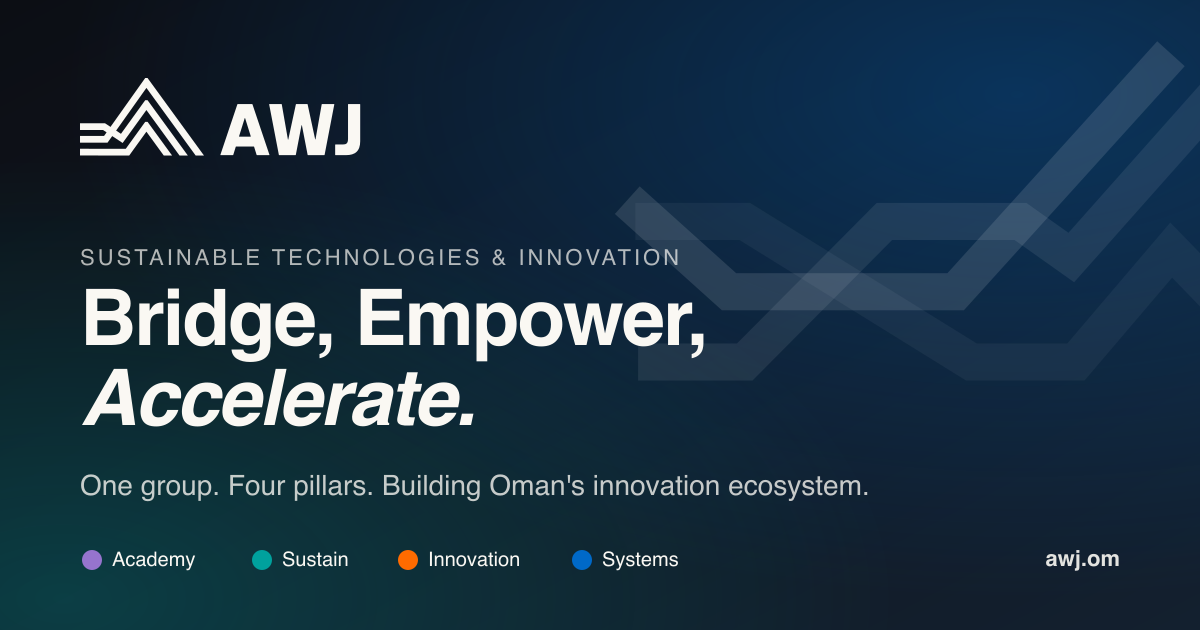
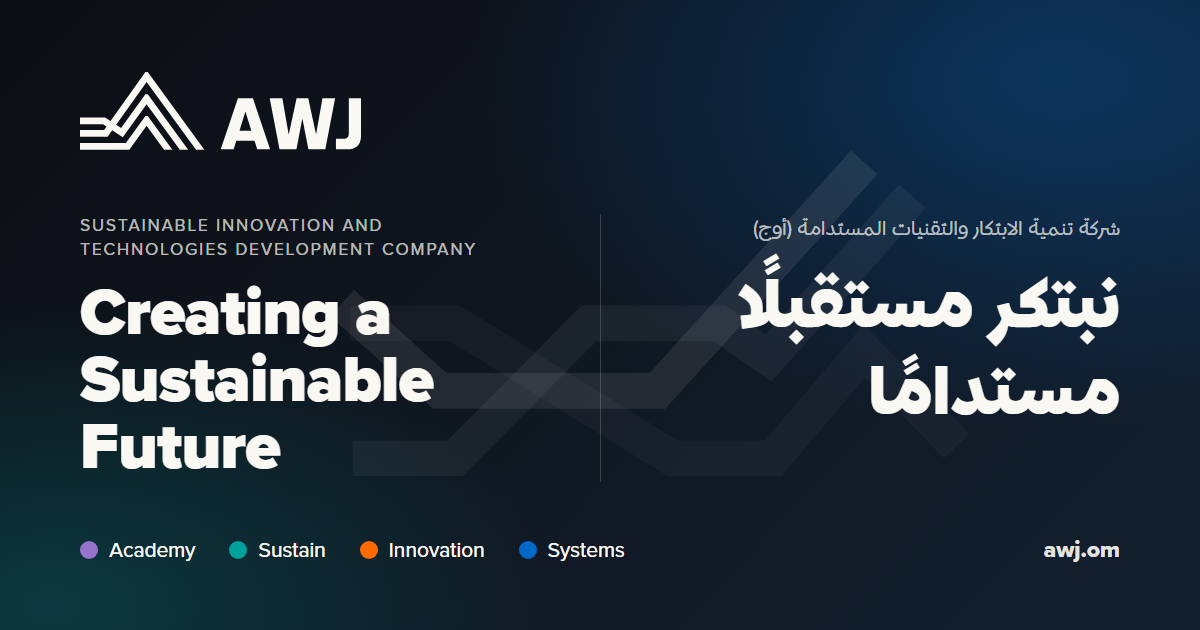
og-image.png: new bilingual design (og-image.html + render-og.mjs replace og-image.svg); meta description, og:image ?v=2; deploy-preview: share tags to Pages URL

diff --git a/scripts/og-image.html b/scripts/og-image.html
@@ -1,0 +1,88 @@
+<!doctype html>
+<!-- Source for public/og-image.png (1200x630). Render: node scripts/render-og.mjs -->
+<html>
+<head>
+<meta charset="utf-8" />
+<style>
+  @font-face { font-family: 'PNA'; src: url('../public/Fonts/Proxima Nova Arabic Regular.otf'); font-weight: 400; }
+  @font-face { font-family: 'PNA'; src: url('../public/Fonts/Proxima Nova Arabic ExtraBold.otf'); font-weight: 800; }
+  @font-face { font-family: 'PNA'; src: url('../public/Fonts/Proxima Nova Arabic Black.otf'); font-weight: 900; }
+
+  * { margin: 0; padding: 0; box-sizing: border-box; }
+  html, body { width: 1200px; height: 630px; }
+  body {
+    position: relative; overflow: hidden;
+    font-family: 'PNA', sans-serif; color: #faf8f3;
+    background:
+      radial-gradient(ellipse 70% 80% at 88% 12%, rgba(0, 105, 200, 0.34), transparent 70%),
+      radial-gradient(ellipse 60% 70% at 4% 96%, rgba(0, 161, 157, 0.26), transparent 70%),
+      linear-gradient(135deg, #0c0e14, #13202f);
+  }
+  .watermark { position: absolute; left: 330px; top: 150px; width: 640px; opacity: 0.7; }
+  .logo { position: absolute; left: 80px; top: 72px; height: 78px; }
+
+  .cols {
+    position: absolute; left: 80px; right: 80px; top: 214px;
+    display: grid; grid-template-columns: 1fr 1px 1fr; column-gap: 56px;
+  }
+  .rule { background: rgba(250, 248, 243, 0.18); }
+  .eyebrow { font-size: 17px; font-weight: 400; opacity: 0.72; line-height: 1.4; }
+  .en .eyebrow { letter-spacing: 2px; text-transform: uppercase; }
+  .ar { direction: rtl; text-align: right; }
+  .ar .eyebrow { font-size: 21px; }
+  h1 { margin-top: 18px; font-weight: 900; line-height: 1.02; }
+  .en h1 { font-size: 66px; letter-spacing: -1px; }
+  .ar h1 { font-size: 72px; line-height: 1.2; }
+
+  .foot {
+    position: absolute; left: 80px; right: 80px; bottom: 62px;
+    display: flex; align-items: center; justify-content: space-between;
+    font-size: 21px;
+  }
+  .pillars { display: flex; gap: 34px; }
+  .pillars span { display: flex; align-items: center; gap: 11px; }
+  .pillars i { width: 18px; height: 18px; border-radius: 50%; }
+  .d-academy { background: #9674ce; } .d-sustain { background: #00a19d; }
+  .d-innovation { background: #ff6b00; } .d-systems { background: #0069c8; }
+  .domain { font-weight: 800; opacity: 0.9; font-size: 23px; }
+</style>
+</head>
+<body>
+  <svg class="watermark" viewBox="-41 -47 1075 548" aria-hidden="true">
+    <polygon fill="rgba(255,255,255,0.05)" points="-7.42 214.36 -7.42 274.18 160.4 274.18 525.95 500.86 716.89 500.86 858.21 334.94 990.48 471.02 1033.37 429.32 855.29 246.11 689.26 441.04 542.99 441.04 177.44 214.36 -7.42 214.36"/>
+    <polygon fill="rgba(255,255,255,0.08)" points="691.05 262.56 623.08 214.36 381.78 214.36 156.48 441.04 -3.09 441.04 -3.09 500.86 181.37 500.86 406.66 274.18 604.02 274.18 700.17 342.36 959.45 50.48 914.73 10.75 691.05 262.56"/>
+    <polygon fill="rgba(255,255,255,0.12)" points="834.22 -46.35 495.86 327.7 155.03 327.7 -.56 187.72 -40.57 232.19 132.08 387.52 522.36 387.52 878.53 -6.16 834.22 -46.35"/>
+  </svg>
+
+  <svg class="logo" viewBox="0 0 876 243" fill="#faf8f3" aria-label="AWJ">
+    <path d="M438.78,239.81l52.98-157.49c.22-.56.78-.89,1.34-.89h44.52c.56,0,1.11.33,1.34.89l52.98,157.49c.22.78-.11,1.22-.89,1.22h-37.84c-.56,0-1.11-.33-1.34-.89l-7.79-25.15c-.22-.56-.78-.89-1.34-.89h-54.65c-.56,0-1.11.33-1.34.89l-7.79,25.15c-.22.56-.78.89-1.34.89h-37.95c-.78,0-1.11-.45-.89-1.22ZM497.99,183.27h34.73c.78,0,1.11-.45.89-1.22l-17.59-56.32c-.33-1.11-1-1.11-1.34,0l-17.59,56.32c-.22.78.11,1.22.89,1.22Z"/>
+    <path d="M621.42,240.03l-30.27-157.38c-.11-.67.22-1.22,1-1.22h37.17c.67,0,1.11.33,1.22,1l19.14,109.63c.22,1,1,1,1.22,0l23.71-109.63c.11-.67.56-1,1.22-1h34.28c.67,0,1.11.33,1.22,1l23.48,108.96c.22,1,1,1,1.22,0l19.25-108.96c.11-.67.56-1,1.22-1h37.17c.78,0,1.11.56,1,1.22l-30.27,157.38c-.11.67-.56,1-1.22,1h-50.64c-.67,0-1.11-.33-1.22-1l-17.81-91.93c-.22-1-1.11-1-1.34,0l-17.7,91.93c-.11.67-.56,1-1.22,1h-50.64c-.67,0-1.11-.33-1.22-1Z"/>
+    <path d="M797.39,239.92v-31.05c0-.67.45-1.11,1.11-1.11h22.48c10.8,0,16.58-3.01,16.58-17.7v-107.52c0-.67.45-1.11,1.11-1.11h35.84c.67,0,1.11.45,1.11,1.11v114.97c0,31.28-16.25,43.52-43.74,43.52h-33.39c-.67,0-1.11-.45-1.11-1.11Z"/>
+    <polygon points="261.79 242.35 207.51 167.74 153.69 242.33 0 242.1 .03 221.1 142.95 221.31 203.77 137.02 211.11 137.02 287.79 242.35 261.79 242.35"/>
+    <polygon points="311.05 242.35 207.51 100.11 133.23 203.06 71.85 162.48 .01 162.48 .01 141.47 78.17 141.47 127.99 174.41 203.77 69.38 211.11 69.38 337.03 242.35 311.05 242.35"/>
+    <polygon points="361.49 242.35 207.57 30.92 86.05 202.05 .01 202.05 .01 181.04 75.21 181.04 203.76 0 211.04 0 387.47 242.35 361.49 242.35"/>
+  </svg>
+
+  <div class="cols">
+    <div class="en">
+      <div class="eyebrow">Sustainable Innovation and<br />Technologies Development Company</div>
+      <h1>Creating a<br />Sustainable Future</h1>
+    </div>
+    <div class="rule"></div>
+    <div class="ar">
+      <div class="eyebrow">شركة تنمية الابتكار والتقنيات المستدامة (أوج)</div>
+      <h1>نبتكر مستقبلًا<br />مستدامًا</h1>
+    </div>
+  </div>
+
+  <div class="foot">
+    <div class="pillars">
+      <span><i class="d-academy"></i>Academy</span>
+      <span><i class="d-sustain"></i>Sustain</span>
+      <span><i class="d-innovation"></i>Innovation</span>
+      <span><i class="d-systems"></i>Systems</span>
+    </div>
+    <div class="domain">awj.om</div>
+  </div>
+</body>
+</html>

diff --git a/index.html b/index.html
@@ -8,7 +8,7 @@
     <title>AWJ | Sustainable Innovation and Technologies Development Company</title>
     <meta
       name="description"
-      content="AWJ bridges the gaps in Oman's innovation ecosystem — accelerating sustainable technologies, empowering young Omani talent, and building the institutions that turn opportunity into national wealth."
+      content="Sustainable Innovation and Technologies Development Company (AWJ). We help government, private, and academic sectors strengthen competitive capabilities and accelerate sustainable, inclusive growth."
     />
     <link rel="canonical" href="https://awj.om/" />
 
@@ -25,15 +25,15 @@
     <meta property="og:title" content="AWJ" />
     <meta
       property="og:description"
-      content="AWJ bridges the gaps in Oman's innovation ecosystem — accelerating sustainable technologies, empowering young Omani talent, and building the institutions that turn opportunity into national wealth."
+      content="Sustainable Innovation and Technologies Development Company (AWJ). We help government, private, and academic sectors strengthen competitive capabilities and accelerate sustainable, inclusive growth."
     />
     <meta property="og:url" content="https://awj.om/" />
-    <meta property="og:image" content="https://awj.om/og-image.png" />
-    <meta property="og:image:secure_url" content="https://awj.om/og-image.png" />
+    <meta property="og:image" content="https://awj.om/og-image.png?v=2" />
+    <meta property="og:image:secure_url" content="https://awj.om/og-image.png?v=2" />
     <meta property="og:image:type" content="image/png" />
     <meta property="og:image:width" content="1200" />
     <meta property="og:image:height" content="630" />
-    <meta property="og:image:alt" content="AWJ — Bridge, Empower, Accelerate. One group. Four pillars." />
+    <meta property="og:image:alt" content="AWJ: Creating a Sustainable Future. نبتكر مستقبلًا مستدامًا" />
     <meta property="og:locale" content="en_US" />
     <meta property="og:locale:alternate" content="ar_OM" />
 
@@ -42,10 +42,10 @@
     <meta name="twitter:title" content="AWJ" />
     <meta
       name="twitter:description"
-      content="AWJ bridges the gaps in Oman's innovation ecosystem — accelerating sustainable technologies, empowering young Omani talent, and building the institutions that turn opportunity into national wealth."
+      content="Sustainable Innovation and Technologies Development Company (AWJ). We help government, private, and academic sectors strengthen competitive capabilities and accelerate sustainable, inclusive growth."
     />
-    <meta name="twitter:image" content="https://awj.om/og-image.png" />
-    <meta name="twitter:image:alt" content="AWJ — Bridge, Empower, Accelerate. One group. Four pillars." />
+    <meta name="twitter:image" content="https://awj.om/og-image.png?v=2" />
+    <meta name="twitter:image:alt" content="AWJ: Creating a Sustainable Future. نبتكر مستقبلًا مستدامًا" />
 
     <link rel="stylesheet" href="https://cdnjs.cloudflare.com/ajax/libs/font-awesome/6.4.0/css/all.min.css" />
 
